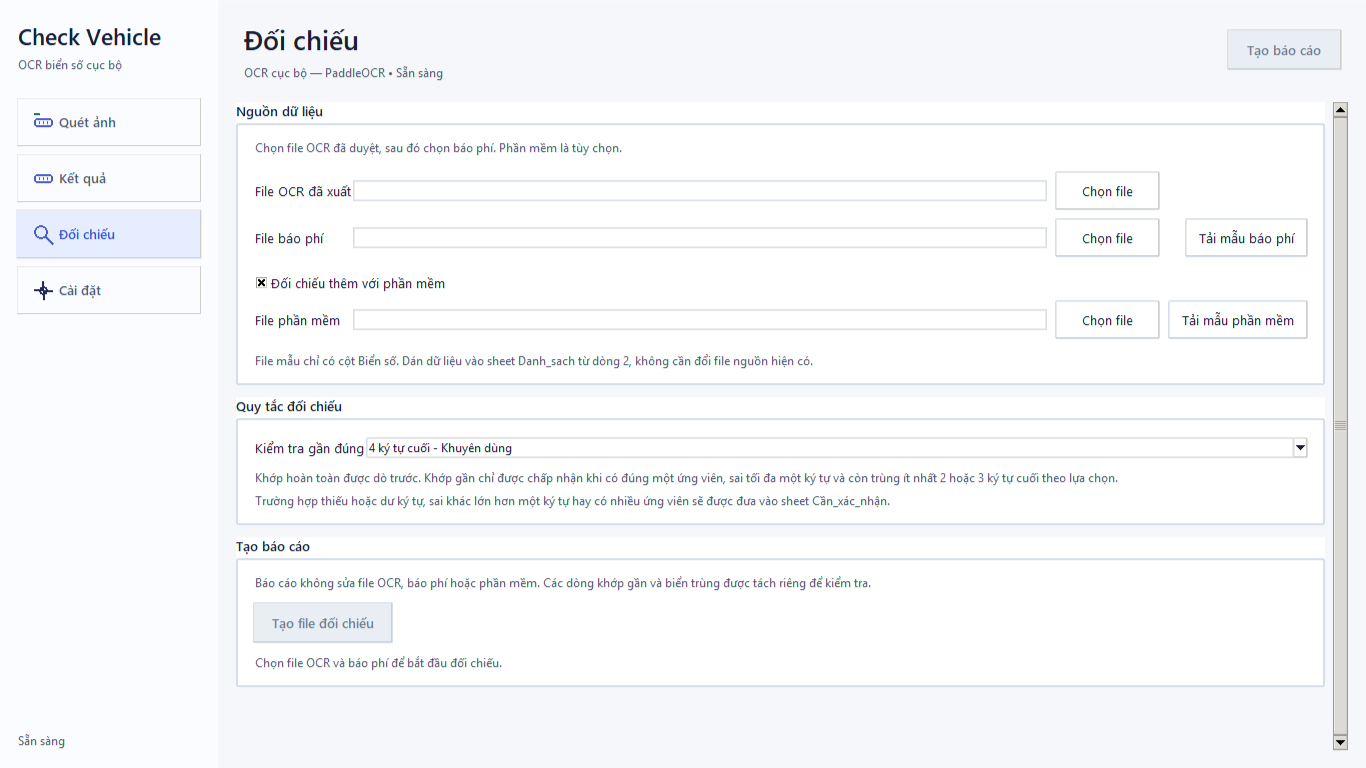
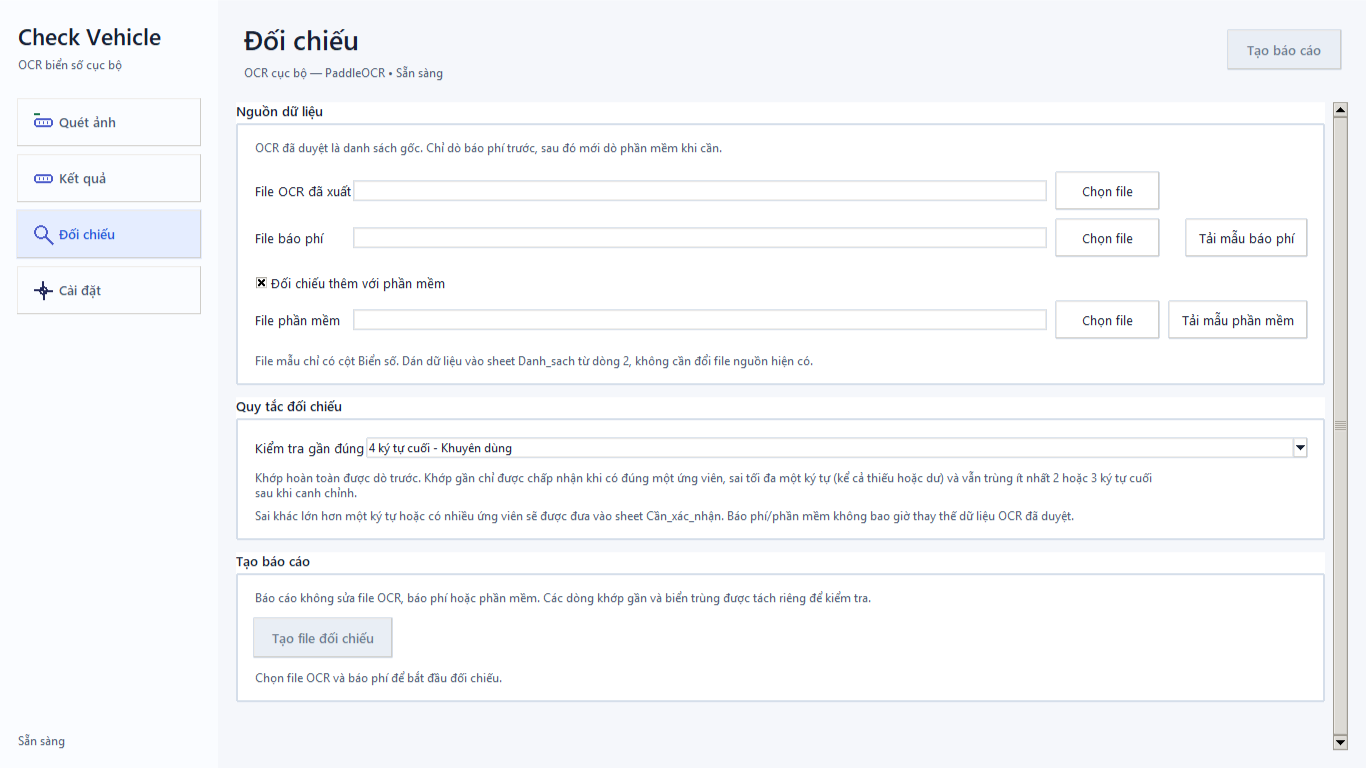
feat: enlarge result evidence view and align near matches

Changed region(s): [[0.1537, 0.5938, 0.9839, 0.9062], [0.1845, 0.1875, 0.5227, 0.2188]]

diff --git a/check_vehicle_ocr/ui/pages/results_page.py b/check_vehicle_ocr/ui/pages/results_page.py
@@ -12,8 +12,11 @@ class ResultsPage(Page):
 
     def __init__(self, parent, controller):
         super().__init__(parent, controller)
-        self.columnconfigure(0, weight=1, minsize=360)
-        self.columnconfigure(1, weight=1, minsize=460)
+        # Results are checked against the original photo, so the preview column
+        # intentionally gets more room than the list rather than splitting the
+        # operator workspace into two equally narrow panes.
+        self.columnconfigure(0, weight=1, minsize=340)
+        self.columnconfigure(1, weight=2, minsize=620)
         self.rowconfigure(1, weight=1)
 
         metrics = ttk.Frame(self, style="App.TFrame")
@@ -108,15 +111,24 @@ class ResultsPage(Page):
         parent.rowconfigure(2, weight=1)
         ttk.Label(parent, textvariable=controller.detail_title_var, style="Section.TLabel").grid(row=0, column=0, sticky="w")
         ttk.Label(parent, textvariable=controller.detail_meta_var, style="SurfaceMuted.TLabel", wraplength=520).grid(row=1, column=0, sticky="w", pady=(3, 8))
-        preview_holder = ttk.Frame(parent, style="Surface.TFrame")
-        preview_holder.grid(row=2, column=0, sticky="nsew", pady=(0, 10))
-        preview_holder.columnconfigure(0, weight=3, minsize=220)
-        preview_holder.columnconfigure(1, weight=1, minsize=130)
-        preview_holder.rowconfigure(0, weight=1)
+        controller.results_detail_split = ttk.Panedwindow(parent, orient="vertical")
+        controller.results_detail_split.grid(row=2, column=0, sticky="nsew")
+
+        preview_holder = ttk.Frame(controller.results_detail_split, style="Surface.TFrame", padding=(0, 0, 0, 8))
+        controller.results_detail_split.add(preview_holder, weight=3)
+        preview_holder.columnconfigure(0, weight=4, minsize=470)
+        preview_holder.columnconfigure(1, weight=1, minsize=145)
+        preview_holder.rowconfigure(0, weight=1, minsize=250)
         controller.preview_label = tk.Label(
-            preview_holder, bg=controller.colors["preview"], fg=controller.colors["on_accent"], text="Chọn một ảnh để xem", compound="center"
+            preview_holder,
+            bg=controller.colors["preview"],
+            fg=controller.colors["on_accent"],
+            text="Chọn một ảnh để xem",
+            compound="center",
+            height=15,
         )
         controller.preview_label.grid(row=0, column=0, sticky="nsew", padx=(0, 8))
+        controller.preview_label.bind("<Configure>", controller._schedule_preview_resize)
         crop_holder = ttk.Frame(preview_holder, style="Surface.TFrame")
         crop_holder.grid(row=0, column=1, sticky="nsew")
         ttk.Label(crop_holder, text="Crop biển số", style="SurfaceMuted.TLabel").pack(anchor="w")
@@ -124,11 +136,16 @@ class ResultsPage(Page):
             crop_holder, bg=controller.colors["preview"], fg=controller.colors["on_accent"], text="Chưa có crop", compound="center"
         )
         controller.crop_preview_label.pack(fill="both", expand=True, pady=(4, 0))
-        ttk.Label(parent, text="Thông tin và chỉnh sửa biển số", style="Section.TLabel").grid(row=3, column=0, sticky="w", pady=(0, 6))
-        frame = ttk.Frame(parent, style="Surface.TFrame")
-        frame.grid(row=4, column=0, sticky="ew")
+
+        editor = ttk.Frame(controller.results_detail_split, style="Surface.TFrame", padding=(0, 8, 0, 0))
+        controller.results_detail_split.add(editor, weight=2)
+        editor.columnconfigure(0, weight=1)
+        editor.rowconfigure(1, weight=1)
+        ttk.Label(editor, text="Thông tin và chỉnh sửa biển số", style="Section.TLabel").grid(row=0, column=0, sticky="w", pady=(0, 6))
+        frame = ttk.Frame(editor, style="Surface.TFrame")
+        frame.grid(row=1, column=0, sticky="nsew")
         frame.columnconfigure(0, weight=1)
-        controller.plate_canvas = tk.Canvas(frame, height=218, bg=controller.colors["surface"], highlightthickness=0)
+        controller.plate_canvas = tk.Canvas(frame, height=168, bg=controller.colors["surface"], highlightthickness=0)
         controller.plate_canvas.grid(row=0, column=0, sticky="ew")
         scroll = ttk.Scrollbar(frame, orient="vertical", command=controller.plate_canvas.yview)
         scroll.grid(row=0, column=1, sticky="ns")
@@ -137,8 +154,8 @@ class ResultsPage(Page):
         controller.plate_canvas.configure(yscrollcommand=scroll.set)
         controller.plates_frame.bind("<Configure>", lambda _event: controller.plate_canvas.configure(scrollregion=controller.plate_canvas.bbox("all")))
         controller.plate_canvas.bind("<Configure>", lambda event: controller.plate_canvas.itemconfigure(controller.plate_canvas_window, width=event.width))
-        buttons = ttk.Frame(parent, style="Surface.TFrame")
-        buttons.grid(row=5, column=0, sticky="ew", pady=(10, 0))
+        buttons = ttk.Frame(editor, style="Surface.TFrame")
+        buttons.grid(row=2, column=0, sticky="ew", pady=(10, 0))
         buttons.columnconfigure((0, 1), weight=1)
         ttk.Button(buttons, text="Lưu chỉnh sửa", command=controller.save_detail_edits, style="Primary.TButton").grid(
             row=0, column=0, sticky="ew", padx=(0, 4), pady=(0, 6)

diff --git a/tests/reconciliation_test.py b/tests/reconciliation_test.py
@@ -47,18 +47,36 @@ def main() -> int:
         _write_source(
             ocr,
             "Biển số xuất Excel",
-            ["30A-123.45", "51F-123.45", "59X1-999.99", "43A-111.11", "30A-555.55", "50A-222.22"],
+            [
+                "30A-123.45",
+                "51F-123.45",
+                "59X1-999.99",
+                "43A-111.11",
+                "30A-555.55",
+                "50A-222.22",
+                "30A-765.43",
+                "30A-987.65",
+            ],
         )
         _write_source(
             fee,
             "Biển số",
-            ["30A12345", "30A12345", "51F-123.46", "30A-555.54", "30A-555.56", "60A-000.01", "=SUM(A1:A2)"],
+            [
+                "30A12345",
+                "30A12345",
+                "51F-123.46",
+                "30A-555.54",
+                "30A-555.56",
+                "30A-765.3",
+                "60A-000.01",
+                "=SUM(A1:A2)",
+            ],
         )
-        _write_source(software, "Biển số", ["59X1-999.99", "50A-222.23", "70A-000.01"])
+        _write_source(software, "Biển số", ["59X1-999.99", "50A-222.23", "30A-9876.65", "70A-000.01"])
 
         report = reconcile_workbooks(ocr, fee, software, suffix_length=4)
-        if len(report.rows) != 6:
-            raise AssertionError(f"Phải đọc 6 biển OCR, nhận được {len(report.rows)}")
+        if len(report.rows) != 8:
+            raise AssertionError(f"Phải đọc 8 biển OCR, nhận được {len(report.rows)}")
         statuses = [(row.fee.status, row.software.status, row.conclusion) for row in report.rows]
         expected = [
             ("exact", "skipped", "Khớp báo phí"),
@@ -67,9 +85,15 @@ def main() -> int:
             ("missing", "missing", "Không có trên cả hai nguồn"),
             ("ambiguous", "missing", "Cần xác nhận báo phí"),
             ("missing", "near", "Có gần đúng phần mềm, không báo phí"),
+            ("near", "skipped", "Khớp gần báo phí"),
+            ("missing", "near", "Có gần đúng phần mềm, không báo phí"),
         ]
         if statuses != expected:
             raise AssertionError(f"Phân loại đối chiếu sai: {statuses}")
+        if "Thiếu hoặc dư 1 ký tự" not in report.rows[6].fee.note:
+            raise AssertionError("Thiếu một ký tự ở báo phí phải được nhận diện là khớp gần")
+        if "Thiếu hoặc dư 1 ký tự" not in report.rows[7].software.note:
+            raise AssertionError("Dư một ký tự ở phần mềm phải được nhận diện là khớp gần")
         if not any(source == "Báo phí" and normalized == "30A12345" for source, normalized, _records in report.duplicates):
             raise AssertionError("Phải báo biển trùng trong nguồn báo phí")
 
@@ -92,8 +116,8 @@ def main() -> int:
             raise AssertionError(f"Thiếu sheet báo cáo: {workbook.sheetnames}")
         if workbook["Kết_quả_chính"]["M2"].value != "Khớp báo phí":
             raise AssertionError("Sheet kết quả chính không giữ kết luận đối chiếu")
-        if workbook["Khớp_gần_báo_phí"].max_row != 2:
-            raise AssertionError("Khớp gần báo phí phải được tách thành sheet riêng")
+        if workbook["Khớp_gần_báo_phí"].max_row != 3:
+            raise AssertionError("Các khớp gần báo phí phải được tách thành sheet riêng")
         workbook.close()
 
         fee_only = reconcile_workbooks(ocr, fee, suffix_length=3)

diff --git a/check_vehicle_ocr/reconciliation.py b/check_vehicle_ocr/reconciliation.py
@@ -371,19 +371,25 @@ def _find_match(
         )
 
     target = one_edit[0]
-    tail_matches = _tail_position_matches(record.normalized_text, target.normalized_text, suffix_length)
+    tail_matches = _tail_alignment_matches(record.normalized_text, target.normalized_text, suffix_length)
     difference = _difference_note(record.normalized_text, target.normalized_text)
     if tail_matches >= suffix_length - 1:
         return PlateMatch(
             "near",
             target=target,
-            note=f"Khớp gần được chấp nhận: {difference}; trùng {tail_matches}/{suffix_length} ký tự cuối.",
+            note=(
+                f"Khớp gần được chấp nhận: {difference}; trùng {tail_matches}/{suffix_length} ký tự cuối "
+                "sau khi canh chỉnh."
+            ),
             candidates=(target,),
         )
     return PlateMatch(
         "review",
         target=target,
-        note=f"{difference}; chỉ trùng {tail_matches}/{suffix_length} ký tự cuối nên cần xác nhận thủ công.",
+        note=(
+            f"{difference}; chỉ trùng {tail_matches}/{suffix_length} ký tự cuối sau khi canh chỉnh "
+            "nên cần xác nhận thủ công."
+        ),
         candidates=(target,),
     )
 
@@ -402,10 +408,27 @@ def _levenshtein_distance(left: str, right: str) -> int:
     return previous[-1]
 
 
-def _tail_position_matches(left: str, right: str, suffix_length: int) -> int:
+def _tail_alignment_matches(left: str, right: str, suffix_length: int) -> int:
+    """Return the shared tail length while tolerating one inserted/deleted character.
+
+    OCR is the reviewed source of truth.  A one-character omission or addition
+    in a fee/software workbook shifts tail positions, so positional comparison
+    would reject a valid unique match.  The longest common subsequence keeps the
+    same conservative ``suffix_length - 1`` threshold without that false reject.
+    """
+
     left_tail = left[-suffix_length:]
     right_tail = right[-suffix_length:]
-    return sum(first == second for first, second in zip(left_tail.rjust(suffix_length), right_tail.rjust(suffix_length)))
+    previous = [0] * (len(right_tail) + 1)
+    for left_character in left_tail:
+        current = [0]
+        for index, right_character in enumerate(right_tail, start=1):
+            if left_character == right_character:
+                current.append(previous[index - 1] + 1)
+            else:
+                current.append(max(previous[index], current[-1]))
+        previous = current
+    return previous[-1]
 
 
 def _difference_note(left: str, right: str) -> str:

diff --git a/check_vehicle_ocr/app.py b/check_vehicle_ocr/app.py
@@ -265,6 +265,7 @@ class CheckVehicleApp(tk.Tk):
         self.selected_image_path: Path | None = None
         self.preview_photo = None
         self.crop_preview_photo = None
+        self._preview_resize_after: str | None = None
         self.event_queue: queue.Queue = queue.Queue()
         self.worker: threading.Thread | None = None
         self.export_worker: threading.Thread | None = None
@@ -3556,12 +3557,31 @@ class CheckVehicleApp(tk.Tk):
         try:
             image = Image.open(image_path)
             image = ImageOps.exif_transpose(image).convert("RGB")
-            image.thumbnail((340, 250), Image.Resampling.LANCZOS)
+            width = self.preview_label.winfo_width() - 16
+            height = self.preview_label.winfo_height() - 16
+            maximum_size = (width, height) if width >= 180 and height >= 140 else (620, 460)
+            image.thumbnail(maximum_size, Image.Resampling.LANCZOS)
             self.preview_photo = ImageTk.PhotoImage(image)
             self.preview_label.configure(image=self.preview_photo, text="")
         except Exception as exc:
             self.preview_photo = None
             self.preview_label.configure(image="", text=f"Không hiển thị được ảnh\n{exc}")
+
+    def _schedule_preview_resize(self, _event=None) -> None:
+        """Refit the original image after the operator moves the detail sash."""
+
+        path = self.selected_image_path
+        if path is None or not path.is_file():
+            return
+        if self._preview_resize_after is not None:
+            self.after_cancel(self._preview_resize_after)
+        self._preview_resize_after = self.after(120, self._reload_preview_after_resize)
+
+    def _reload_preview_after_resize(self) -> None:
+        self._preview_resize_after = None
+        path = self.selected_image_path
+        if path is not None and path.is_file():
+            self._load_preview(path)
 
     def _load_crop_preview(self, result: ImageResult | None) -> None:
         label = getattr(self, "crop_preview_label", None)
@@ -3575,7 +3595,7 @@ class CheckVehicleApp(tk.Tk):
         try:
             image = Image.open(crop_path)
             image = ImageOps.exif_transpose(image).convert("RGB")
-            image.thumbnail((140, 90), Image.Resampling.LANCZOS)
+            image.thumbnail((150, 100), Image.Resampling.LANCZOS)
             self.crop_preview_photo = ImageTk.PhotoImage(image)
             label.configure(image=self.crop_preview_photo, text="")
         except Exception as exc:

diff --git a/check_vehicle_ocr/ui/pages/reconciliation_page.py b/check_vehicle_ocr/ui/pages/reconciliation_page.py
@@ -31,7 +31,7 @@ class ReconciliationPage(Page):
         card.columnconfigure(1, weight=1)
         ttk.Label(
             card,
-            text="Chọn file OCR đã duyệt, sau đó chọn báo phí. Phần mềm là tùy chọn.",
+            text="OCR đã duyệt là danh sách gốc. Chỉ dò báo phí trước, sau đó mới dò phần mềm khi cần.",
             style="SurfaceMuted.TLabel",
             wraplength=900,
         ).grid(row=0, column=0, columnspan=4, sticky="w", pady=(0, 10))
@@ -93,13 +93,13 @@ class ReconciliationPage(Page):
         )
         ttk.Label(
             card,
-            text="Khớp hoàn toàn được dò trước. Khớp gần chỉ được chấp nhận khi có đúng một ứng viên, sai tối đa một ký tự và còn trùng ít nhất 2 hoặc 3 ký tự cuối theo lựa chọn.",
+            text="Khớp hoàn toàn được dò trước. Khớp gần chỉ được chấp nhận khi có đúng một ứng viên, sai tối đa một ký tự (kể cả thiếu hoặc dư) và vẫn trùng ít nhất 2 hoặc 3 ký tự cuối sau khi canh chỉnh.",
             style="SurfaceMuted.TLabel",
             wraplength=900,
         ).grid(row=1, column=0, columnspan=2, sticky="w", pady=(6, 0))
         ttk.Label(
             card,
-            text="Trường hợp thiếu hoặc dư ký tự, sai khác lớn hơn một ký tự hay có nhiều ứng viên sẽ được đưa vào sheet Cần_xác_nhận.",
+            text="Sai khác lớn hơn một ký tự hoặc có nhiều ứng viên sẽ được đưa vào sheet Cần_xác_nhận. Báo phí/phần mềm không bao giờ thay thế dữ liệu OCR đã duyệt.",
             style="SurfaceMuted.TLabel",
             wraplength=900,
         ).grid(row=2, column=0, columnspan=2, sticky="w", pady=(4, 0))

diff --git a/tests/ui_simplification_test.py b/tests/ui_simplification_test.py
@@ -66,6 +66,7 @@ def main() -> int:
             app.show_page("reconciliation")
             reconciliation_texts = "\n".join(_widget_texts(app.shell.pages["reconciliation"]))
             assert "Tải mẫu báo phí" in reconciliation_texts and "Đối chiếu thêm với phần mềm" in reconciliation_texts
+            assert "OCR đã duyệt là danh sách gốc" in reconciliation_texts
             assert app.reconciliation_fee_file_button.cget("text") == "Chọn file"
             assert app.reconciliation_software_file_button.cget("text") == "Chọn file"
             app.show_page("scan")
@@ -97,6 +98,9 @@ def main() -> int:
 
             app.show_page("results")
             assert "results" in app.shell.pages and hasattr(app, "image_tree") and hasattr(app, "plates_frame")
+            results_page = app.shell.pages["results"]
+            assert int(results_page.grid_columnconfigure(1)["minsize"]) >= 620
+            assert app.results_detail_split.winfo_exists()
             standard = PlateCandidate(bbox=(0, 0, 1, 1), score=90, text="59X112345", raw_text="59X112345", readable=True)
             standard.apply_plate_formatting(PlateType.MOTORCYCLE)
             special = PlateCandidate(bbox=(0, 0, 1, 1), score=80, text="49MD112345", raw_text="49MD112345", readable=True)

diff --git a/tools/packaged_ui_assert.py b/tools/packaged_ui_assert.py
@@ -17,7 +17,7 @@ ROOT = Path(__file__).resolve().parents[1]
 def main() -> int:
     parser = argparse.ArgumentParser()
     parser.add_argument("--executable", type=Path, default=ROOT / "release" / "CheckVehicleOCR" / "CheckVehicleOCR.exe")
-    parser.add_argument("--version", default="1.9.8")
+    parser.add_argument("--version", default="1.9.9")
     args = parser.parse_args()
     executable = args.executable.resolve()
     if not executable.is_file():

diff --git a/tests/v190_runtime_version_test.py b/tests/v190_runtime_version_test.py
@@ -19,7 +19,7 @@ from check_vehicle_ocr.version import VERSION
 
 
 def main() -> int:
-    assert VERSION == "1.9.8"
+    assert VERSION == "1.9.9"
     with tempfile.TemporaryDirectory() as temporary:
         previous_appdata, previous_localappdata = os.environ.get("APPDATA"), os.environ.get("LOCALAPPDATA")
         os.environ["APPDATA"] = temporary

diff --git a/tests/release_v180_test.py b/tests/release_v180_test.py
@@ -15,7 +15,7 @@ from check_vehicle_ocr.version import DEFAULT_GITHUB_REPOSITORY, VERSION
 
 
 def main() -> int:
-    assert VERSION == "1.9.8"
+    assert VERSION == "1.9.9"
     assert DEFAULT_GITHUB_REPOSITORY == "NovWyatt/checkparking"
     icon_root = ROOT / "assets" / "icons"
     for size in (16, 20, 24, 32, 48, 64, 128, 256):

diff --git a/check_vehicle_ocr/version.py b/check_vehicle_ocr/version.py
@@ -8,7 +8,7 @@ embed their exact build date, commit and GitHub repository.
 
 from __future__ import annotations
 
-VERSION = "1.9.8"
+VERSION = "1.9.9"
 DEFAULT_GITHUB_REPOSITORY = "NovWyatt/checkparking"
 
 try:

diff --git a/docs/results-preview-and-reconciliation-logic-report.md b/docs/results-preview-and-reconciliation-logic-report.md
@@ -1,0 +1,41 @@
+# Báo cáo cải thiện xem ảnh và đối chiếu
+
+## Mục tiêu
+
+Tăng khả năng xem ảnh gốc tại Kết quả và cố định quy tắc nghiệp vụ: OCR đã duyệt là nguồn dữ liệu gốc, báo phí/phần mềm là các danh sách cần đối chiếu có thể sai, thiếu hoặc dư một ký tự.
+
+## File thay đổi
+
+- `check_vehicle_ocr/ui/pages/results_page.py`: tăng vùng ảnh, chia phần chi tiết thành hai vùng kéo được và vẫn giữ ô sửa biển số.
+- `check_vehicle_ocr/app.py`: ảnh gốc tự co theo vùng xem sau khi người dùng kéo thanh chia; crop biển số có kích thước phù hợp vùng phụ.
+- `check_vehicle_ocr/reconciliation.py`: canh chỉnh chuỗi ở phần đuôi khi so khớp gần để nhận đúng một lỗi thêm/bớt ký tự.
+- `check_vehicle_ocr/ui/pages/reconciliation_page.py`: mô tả rõ OCR là danh sách gốc, báo phí dò trước và phần mềm dò sau.
+- `tests/reconciliation_test.py`, `tests/ui_simplification_test.py`: kiểm tra sai một ký tự, thiếu một ký tự, dư một ký tự và bố cục vùng xem ảnh.
+- `README.md`, `CHANGELOG.md`, `docs/release-notes-v1.9.9.md`: cập nhật hướng dẫn và ghi chú phát hành.
+
+## Quy tắc đối chiếu
+
+- Khớp hoàn toàn sau khi chuẩn hóa luôn được ưu tiên.
+- OCR đã duyệt không bị thay thế bởi báo phí hoặc phần mềm.
+- Khớp gần cần duy nhất một ứng viên và khoảng cách chỉnh sửa đúng một ký tự.
+- Phần đuôi 3 hoặc 4 ký tự được so theo canh chỉnh chuỗi, nhờ đó thiếu/dư một ký tự không làm lệch toàn bộ vị trí cuối.
+- Có từ hai ứng viên gần đúng hoặc sai khác lớn hơn một ký tự được đưa vào `Cần_xác_nhận`.
+
+## Kiểm tra
+
+```powershell
+.\.venv\Scripts\python.exe -B -m compileall -q check_vehicle_ocr tests tools main.py
+.\.venv\Scripts\python.exe -B tests\reconciliation_test.py
+.\.venv\Scripts\python.exe -B tests\ui_simplification_test.py
+.\.venv\Scripts\python.exe -B tests\ui_smoke_test.py
+.\.venv\Scripts\python.exe -B tests\theme_contrast_test.py
+.\.venv\Scripts\python.exe -B tools\capture_ui_review.py
+git diff --check
+```
+
+Các kiểm tra trên phải hoàn tất trước khi phát hành. Bộ test đối chiếu bao gồm báo phí thiếu một ký tự và phần mềm dư một ký tự.
+
+## Giới hạn còn lại
+
+- Quy tắc tự chấp nhận vẫn bị giới hạn đúng một lỗi và một ứng viên. Các trường hợp phức tạp cần được kiểm tra thủ công trong `Cần_xác_nhận`.
+- Chưa có danh sách báo phí/phần mềm thực tế được cung cấp trong đợt thay đổi này để hiệu chỉnh thêm theo cách nhập liệu của từng hệ thống.
